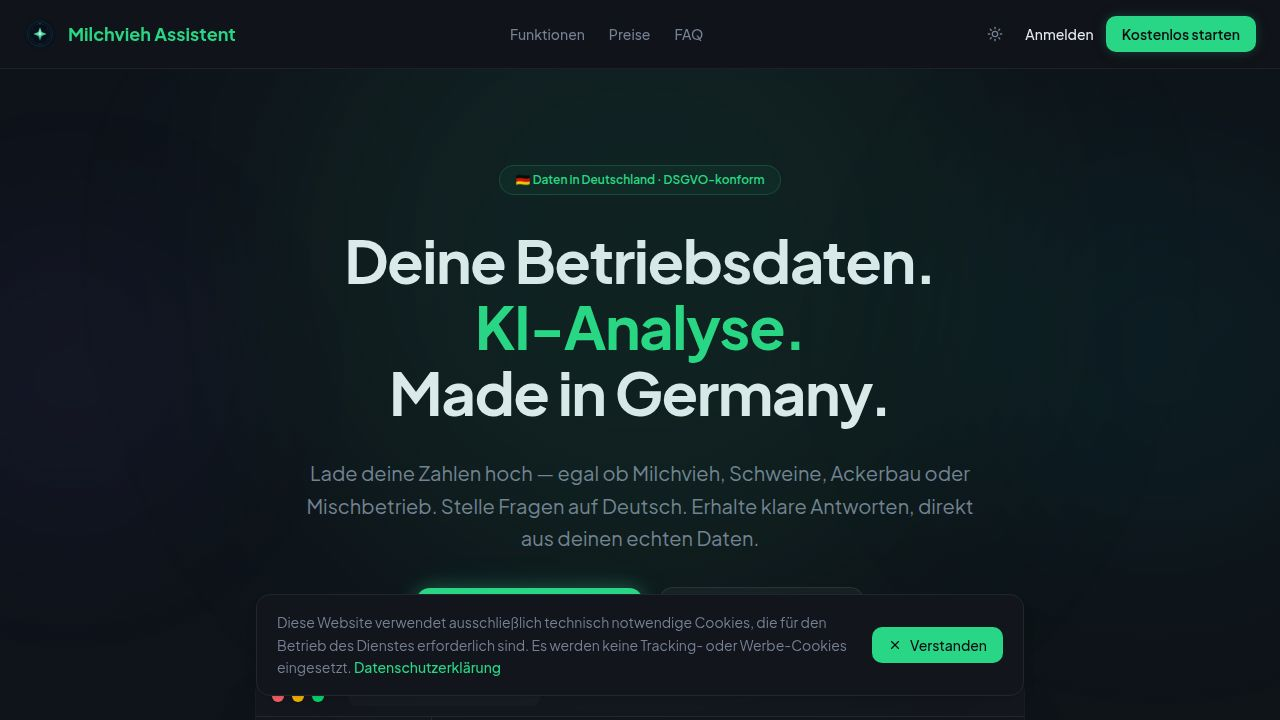
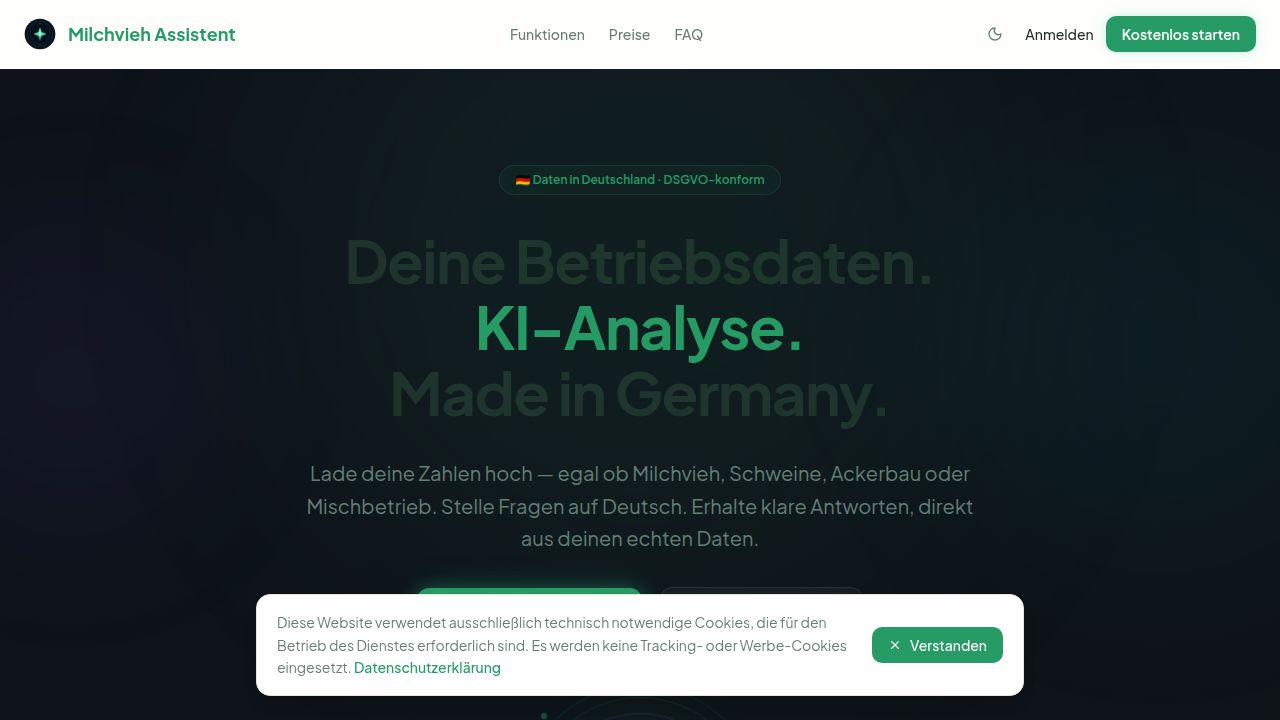
Limit follow-up questions and improve question formatting
Enforce a maximum of 3 follow-up questions in the agent's tool schema and prompt rules, and update the frontend to clean question text and provide a more compact user interface.

Replit-Commit-Author: Agent
Replit-Commit-Session-Id: b352a68f-823f-496c-be77-1329c1f593c6
Replit-Commit-Checkpoint-Type: full_checkpoint
Replit-Commit-Event-Id: 03ce8e5f-ac92-4346-bb97-c130b7b74128
Replit-Commit-Screenshot-Url: https://storage.googleapis.com/screenshot-production-us-central1/b0e4b658-c527-478d-bfc0-10fad857010a/b352a68f-823f-496c-be77-1329c1f593c6/xRTa143
Replit-Helium-Checkpoint-Created: true

diff --git a/artifacts/milchvieh/src/pages/app/analyses.tsx b/artifacts/milchvieh/src/pages/app/analyses.tsx
@@ -974,6 +974,15 @@ function getMsgBackQuestions(msg: AnalysisMessage): string[] | null {
 
 // ── Interactive back-question form ────────────────────────────────────────────
 
+/** Strip leading emoji and **Bold:** label prefixes the agent sometimes adds. */
+function cleanQuestionText(q: string): string {
+  // Remove leading emoji characters (including variation selectors + ZWJ sequences)
+  let s = q.replace(/^[\p{Emoji}\s]+/u, "").trim();
+  // Remove **Label:** or **Label** prefix pattern
+  s = s.replace(/^\*\*[^*]{1,40}\*\*\s*:?\s*/, "").trim();
+  return s || q;
+}
+
 function BackQuestionForm({
   questions,
   onSubmit,
@@ -981,25 +990,17 @@ function BackQuestionForm({
   questions: string[];
   onSubmit: (answer: string) => void;
 }) {
-  const [answers, setAnswers] = useState<string[]>(() => questions.map(() => ""));
-  const [skipped, setSkipped] = useState<boolean[]>(() => questions.map(() => false));
+  const capped = questions.slice(0, 3);
+  const [answers, setAnswers] = useState<string[]>(() => capped.map(() => ""));
+  const [skipped, setSkipped] = useState<boolean[]>(() => capped.map(() => false));
   const [submitted, setSubmitted] = useState(false);
 
   if (submitted) return null;
 
   const allSkipped = skipped.every(Boolean);
 
-  function handleSkip(i: number) {
-    setSkipped((prev) => prev.map((v, idx) => (idx === i ? true : v)));
-    setAnswers((prev) => prev.map((v, idx) => (idx === i ? "" : v)));
-  }
-
-  function handleUnskip(i: number) {
-    setSkipped((prev) => prev.map((v, idx) => (idx === i ? false : v)));
-  }
-
   function handleSend() {
-    const parts = questions.map((q, i) => {
+    const parts = capped.map((q, i) => {
       const ans = skipped[i] ? "keine Angabe" : (answers[i].trim() || "keine Angabe");
       return `${i + 1}. ${q}: ${ans}`;
     });
@@ -1013,59 +1014,43 @@ function BackQuestionForm({
       <div className="w-7 h-7 rounded-full bg-primary/10 flex items-center justify-center shrink-0 mt-1">
         <AiIcon size={14} className="text-primary" />
       </div>
-      <div className="flex-1 bg-secondary rounded-2xl rounded-tl-sm px-4 py-3 space-y-3 max-w-[90%]">
-        {questions.map((q, i) => (
-          <div key={i} className="space-y-1">
-            <div className="flex items-start justify-between gap-2">
-              <label
-                className={cn(
-                  "text-sm font-medium leading-snug flex-1",
-                  skipped[i] ? "line-through text-muted-foreground" : "text-foreground"
-                )}
-              >
-                {q}
-              </label>
-              {skipped[i] ? (
+      <div className="flex-1 bg-secondary rounded-2xl rounded-tl-sm px-4 py-3 space-y-2.5 max-w-[90%]">
+        {capped.map((q, i) => {
+          const clean = cleanQuestionText(q);
+          return (
+            <div key={i} className={cn("space-y-1.5", skipped[i] && "opacity-50")}>
+              <div className="flex items-baseline gap-2">
+                <span className="text-[10px] font-semibold text-primary/70 tabular-nums shrink-0 mt-0.5">
+                  {i + 1}.
+                </span>
+                <span className={cn("text-sm leading-snug text-foreground flex-1", skipped[i] && "line-through")}>
+                  {clean}
+                </span>
                 <button
                   type="button"
-                  onClick={() => handleUnskip(i)}
-                  className="text-xs text-primary hover:underline shrink-0"
+                  onClick={() =>
+                    setSkipped((prev) => prev.map((v, idx) => (idx === i ? !v : v)))
+                  }
+                  className="text-[10px] text-muted-foreground hover:text-foreground shrink-0 transition-colors"
                 >
-                  Rückgängig
+                  {skipped[i] ? "Hinzufügen" : "Überspringen"}
                 </button>
-              ) : (
-                <button
-                  type="button"
-                  onClick={() => handleSkip(i)}
-                  className="text-xs text-muted-foreground hover:text-foreground shrink-0"
-                >
-                  Überspringen
-                </button>
+              </div>
+              {!skipped[i] && (
+                <input
+                  type="text"
+                  maxLength={500}
+                  value={answers[i]}
+                  onChange={(e) =>
+                    setAnswers((prev) => prev.map((a, idx) => (idx === i ? e.target.value : a)))
+                  }
+                  placeholder="Deine Antwort…"
+                  className="w-full rounded-lg border border-border bg-background px-3 py-1.5 text-sm placeholder:text-muted-foreground focus:outline-none focus:ring-2 focus:ring-primary/30 transition-colors"
+                />
               )}
             </div>
-            <textarea
-              rows={1}
-              maxLength={4_000}
-              disabled={skipped[i]}
-              value={answers[i]}
-              onChange={(e) => {
-                const v = e.target.value.slice(0, 4_000);
-                setAnswers((prev) => prev.map((a, idx) => (idx === i ? v : a)));
-              }}
-              placeholder="Deine Antwort…"
-              className={cn(
-                "w-full resize-none rounded-lg border border-border bg-background px-3 py-2 text-sm placeholder:text-muted-foreground focus:outline-none focus:ring-2 focus:ring-primary/30 transition-colors",
-                skipped[i] && "opacity-40 cursor-not-allowed bg-muted"
-              )}
-              style={{ minHeight: "2.5rem" }}
-              onInput={(e) => {
-                const el = e.currentTarget;
-                el.style.height = "auto";
-                el.style.height = `${el.scrollHeight}px`;
-              }}
-            />
-          </div>
-        ))}
+          );
+        })}
         <Button
           type="button"
           size="sm"
@@ -1073,7 +1058,7 @@ function BackQuestionForm({
           disabled={allSkipped}
           className="w-full mt-1"
         >
-          Antworten senden
+          Senden
         </Button>
       </div>
     </div>

diff --git a/artifacts/api-server/src/lib/agent.ts b/artifacts/api-server/src/lib/agent.ts
@@ -258,7 +258,8 @@ const TOOLS: Tool[] = [
         questions: {
           type: "array",
           items: { type: "string" },
-          description: "Liste der konkreten Rückfragen an den Landwirt, z.B. ['Für welchen Zeitraum soll ich auswerten?', 'Welche Investitionssumme planst du?']",
+          maxItems: 3,
+          description: "Liste der konkreten Rückfragen an den Landwirt. MAXIMAL 3 Fragen — wähle nur die wichtigsten. Formuliere jede Frage als einfachen deutschen Satz ohne Emoji, ohne Fett-Formatierung und ohne Kategorielabel-Präfix (kein '**Label:** Frage', sondern direkt 'Welche Investitionssumme planst du?').",
         },
       },
       required: ["questions"],
@@ -394,6 +395,8 @@ WENN IN EINEM FOLGEGESPRÄCH EINE GRAFIK GEWÜNSCHT WIRD UND NUR PDF-DATEN VORHA
 RÜCKFRAGEN-VERHALTEN:
 - Wenn du Rückfragen an den Landwirt stellen musst, verwende IMMER das Werkzeug ask_farmer({questions:[...]}).
   Formuliere Rückfragen NIEMALS als Freitext in deiner Antwort — nur über das Werkzeug.
+- MAXIMAL 3 Rückfragen pro ask_farmer-Aufruf — wähle nur die wirklich entscheidenden Parameter.
+- FORMAT der Fragen: Jede Frage ist ein einfacher klarer deutscher Satz. Kein Emoji am Anfang. Kein Kategorielabel in Fett (kein „**Kompatibilität:** Funktioniert…"). Direkt die Frage stellen: „Welche Investitionssumme planst du?" statt „**Investitionssumme:** Wie viel willst du investieren?".
 - Bei Investitions-, Wirtschaftlichkeits- oder Planungsfragen: Rufe ZUERST get_schema und get_kpis auf.
   Fasse die relevanten Betriebsdaten kurz zusammen. Rufe dann ask_farmer mit maximal 3 konkreten
   Fragen auf (Investitionssumme, Laufzeit, Zinssatz, erwarteter Jahresnutzen). Rechne erst